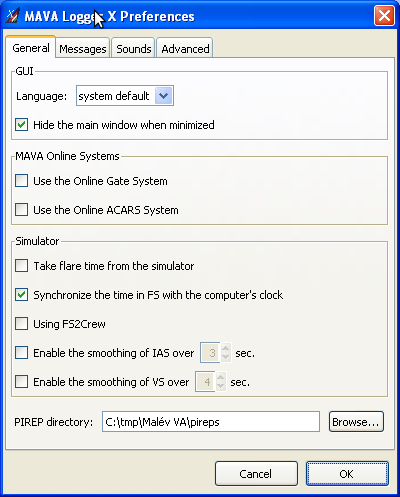
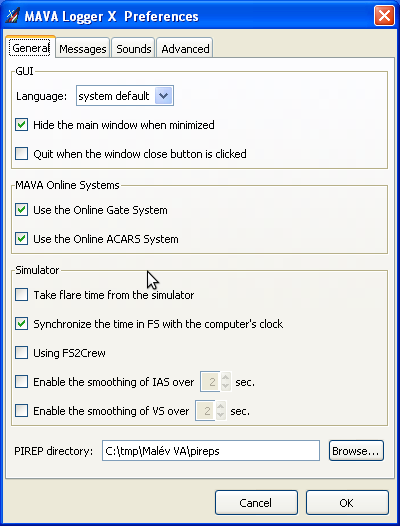
Updated the screenshot to include the checkbox for the behaviour of the close button

Changed region(s): [[0.0, 0.0, 1.0, 0.996]]

diff --git a/src/mlx/const.py b/src/mlx/const.py
@@ -3,7 +3,7 @@
 #-------------------------------------------------------------------------------
 
 # The version of the program
-VERSION="0.5"
+VERSION=""
 
 #-------------------------------------------------------------------------------
 
